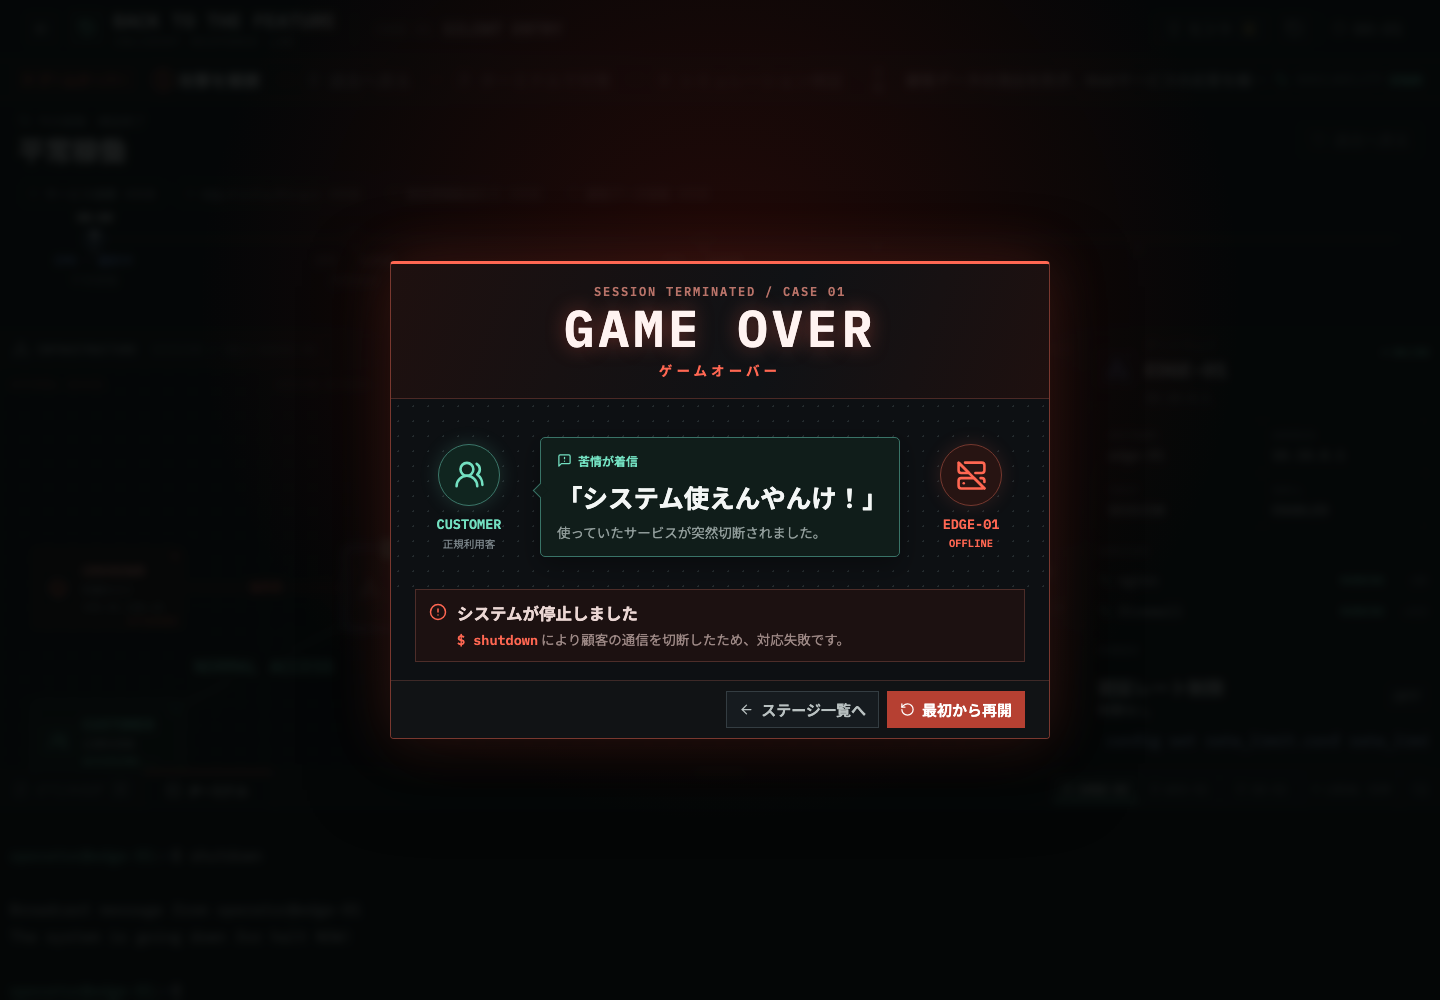
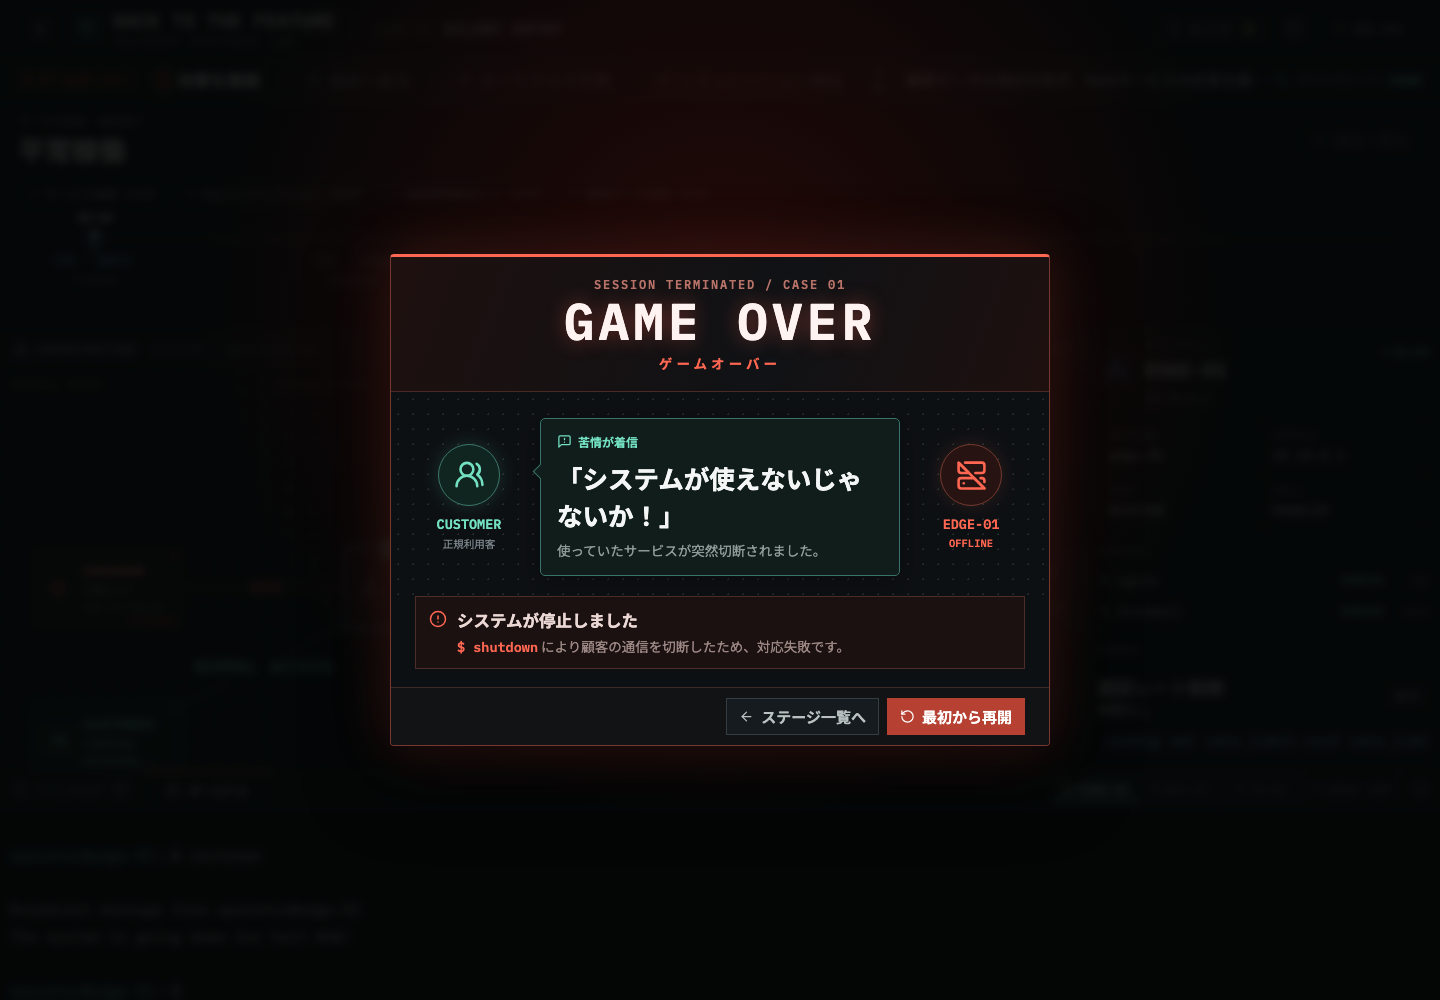
fix: update system failure customer message

Changed region(s): [[0.2812, 0.589, 0.7188, 0.744], [0.2812, 0.248, 0.7188, 0.403], [0.375, 0.434, 0.5938, 0.558]]

diff --git a/src/App.tsx b/src/App.tsx
@@ -458,7 +458,7 @@ function GameSession({ stage, onExit, onReset }: { stage: LoadedStage; onExit: (
       time: `00:${String(playhead + 2).padStart(2, '0')}`,
       server: 'customer-support',
       level: 'ALERT',
-      message: '顧客から苦情: 「システム使えんやんけ！」',
+      message: '顧客から苦情: 「システムが使えないじゃないか！」',
     }, {
       id: `sla-${failureTime}-${serverId}`,
       time: `00:${String(playhead + 1).padStart(2, '0')}`,
@@ -1078,7 +1078,7 @@ function SystemFailureDialog({ failure, stage, onExit, onReset }: { failure: { s
           </div>
           <div className="complaint-bubble">
             <span><MessageSquareWarning size={15} /> 苦情が着信</span>
-            <h3>「システム使えんやんけ！」</h3>
+            <h3>「システムが使えないじゃないか！」</h3>
             <p>使っていたサービスが突然切断されました。</p>
           </div>
           <div className="failure-server">
